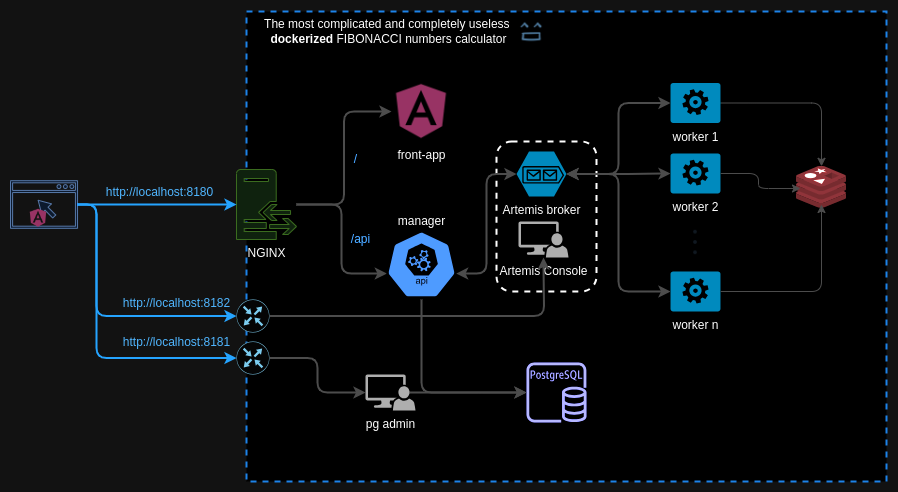
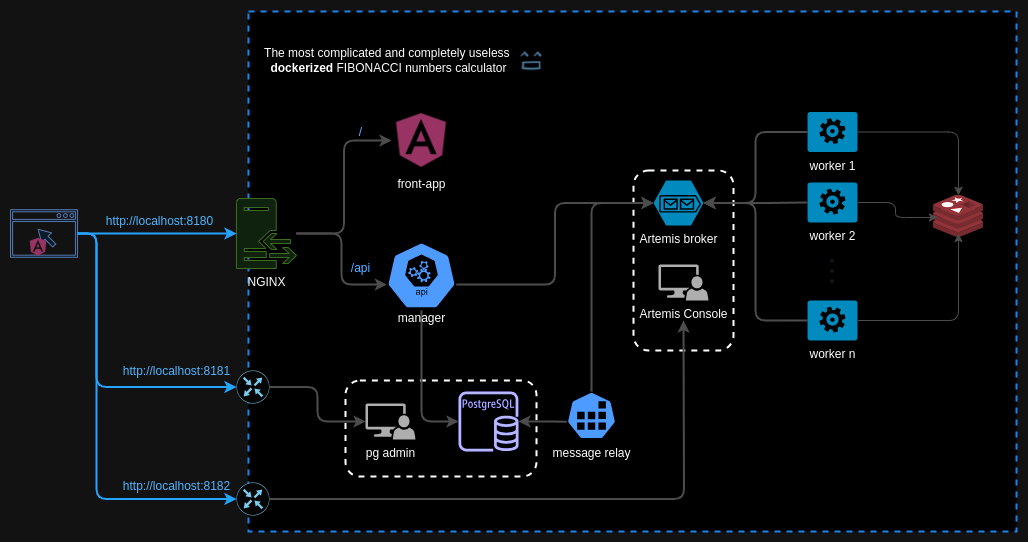
Release 2.0.0
- message relay service
- changed API contracts

diff --git a/README.md b/README.md
@@ -8,4 +8,3 @@
 ```
 docker-compose -f docker-compose-services.yml up -d
 ```
-The persistent data will be stored locally in `./storage/` directory
